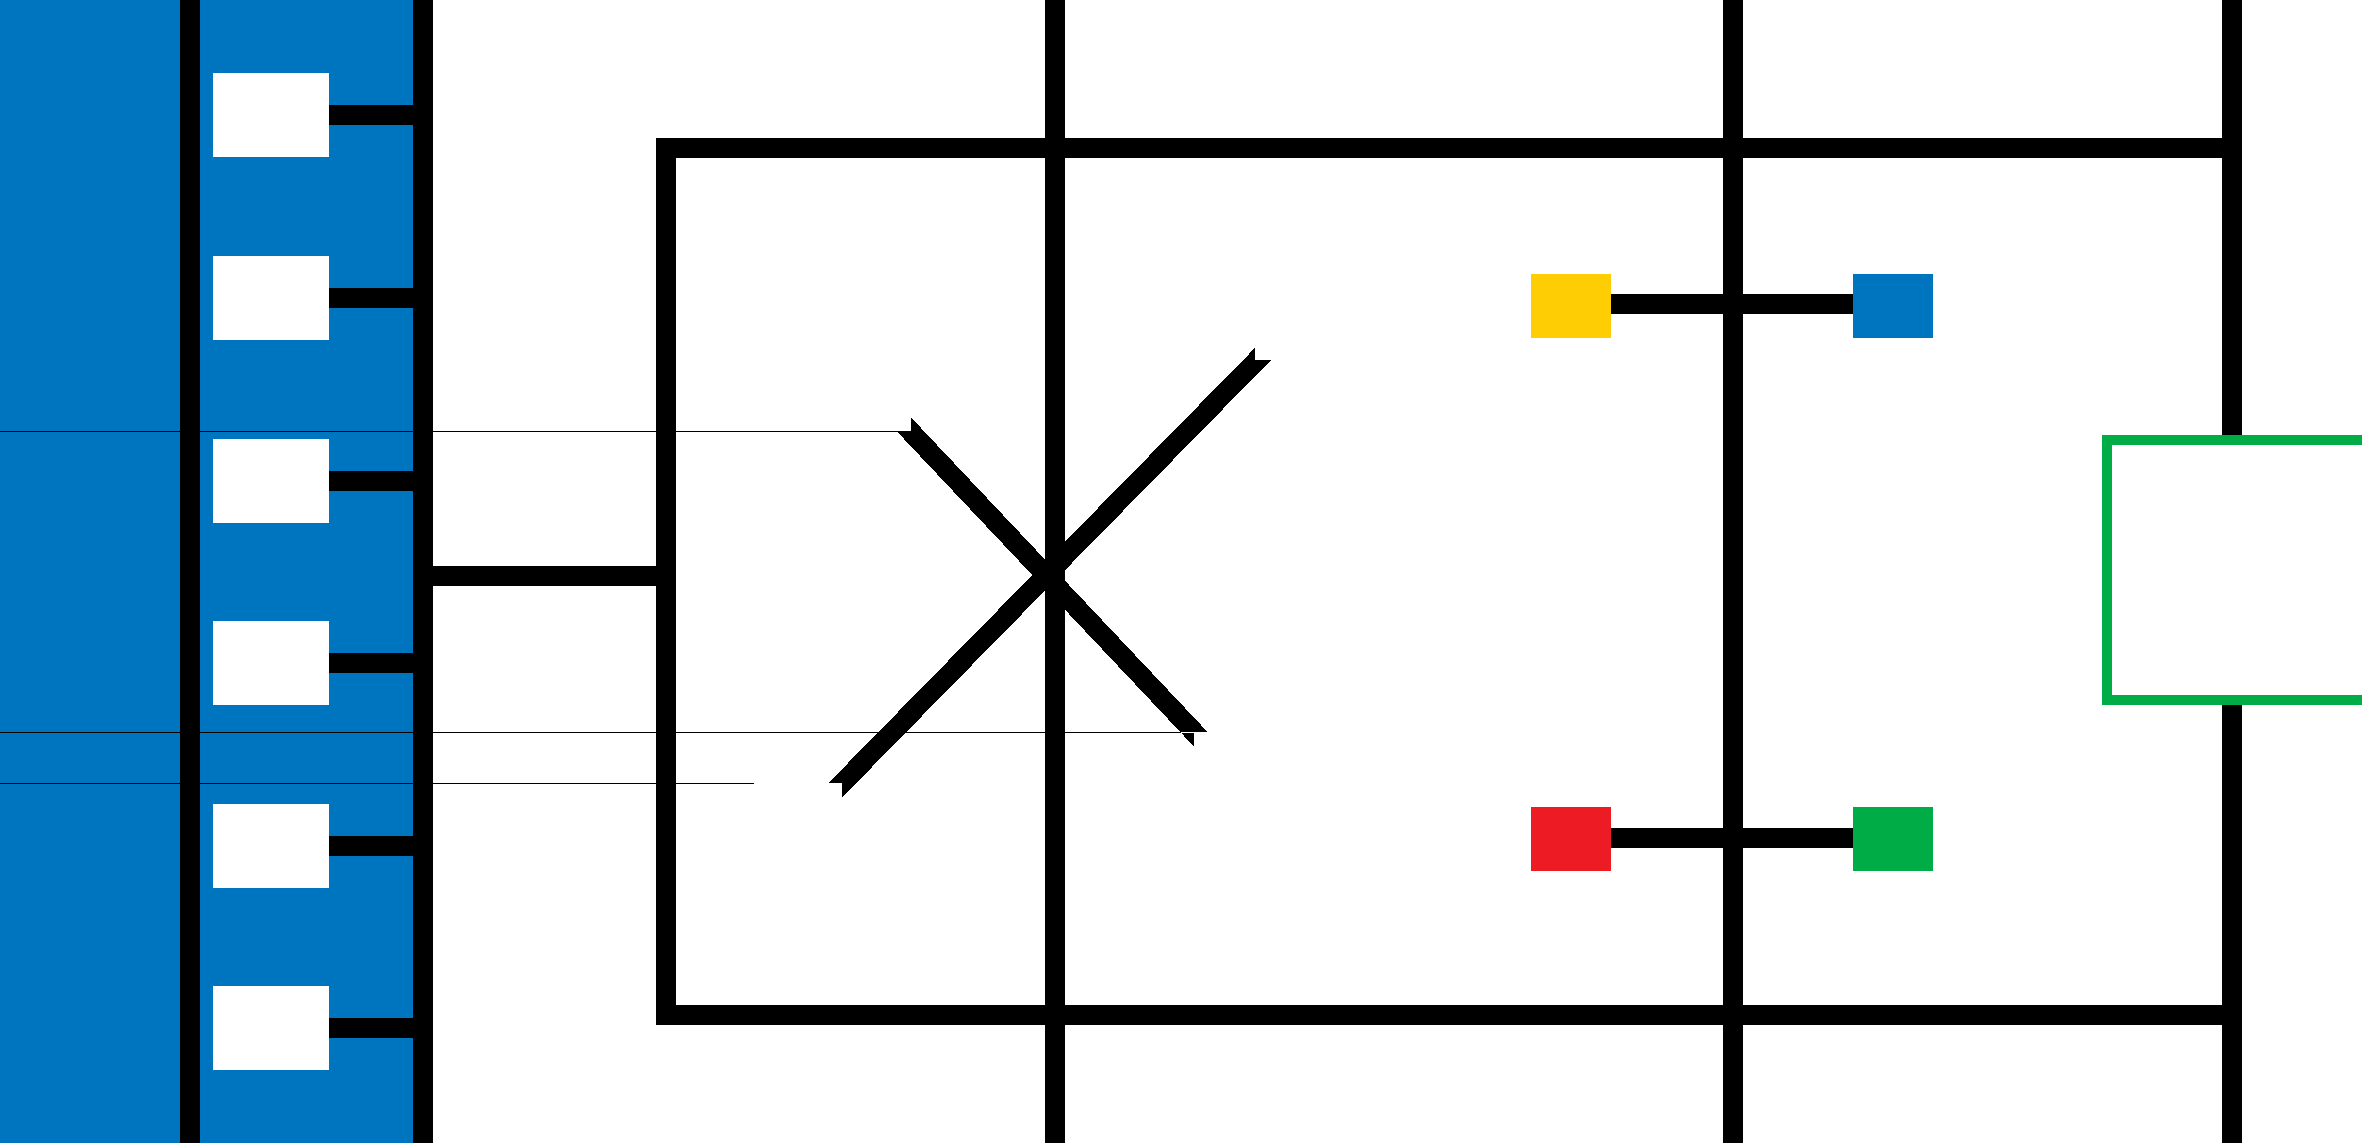
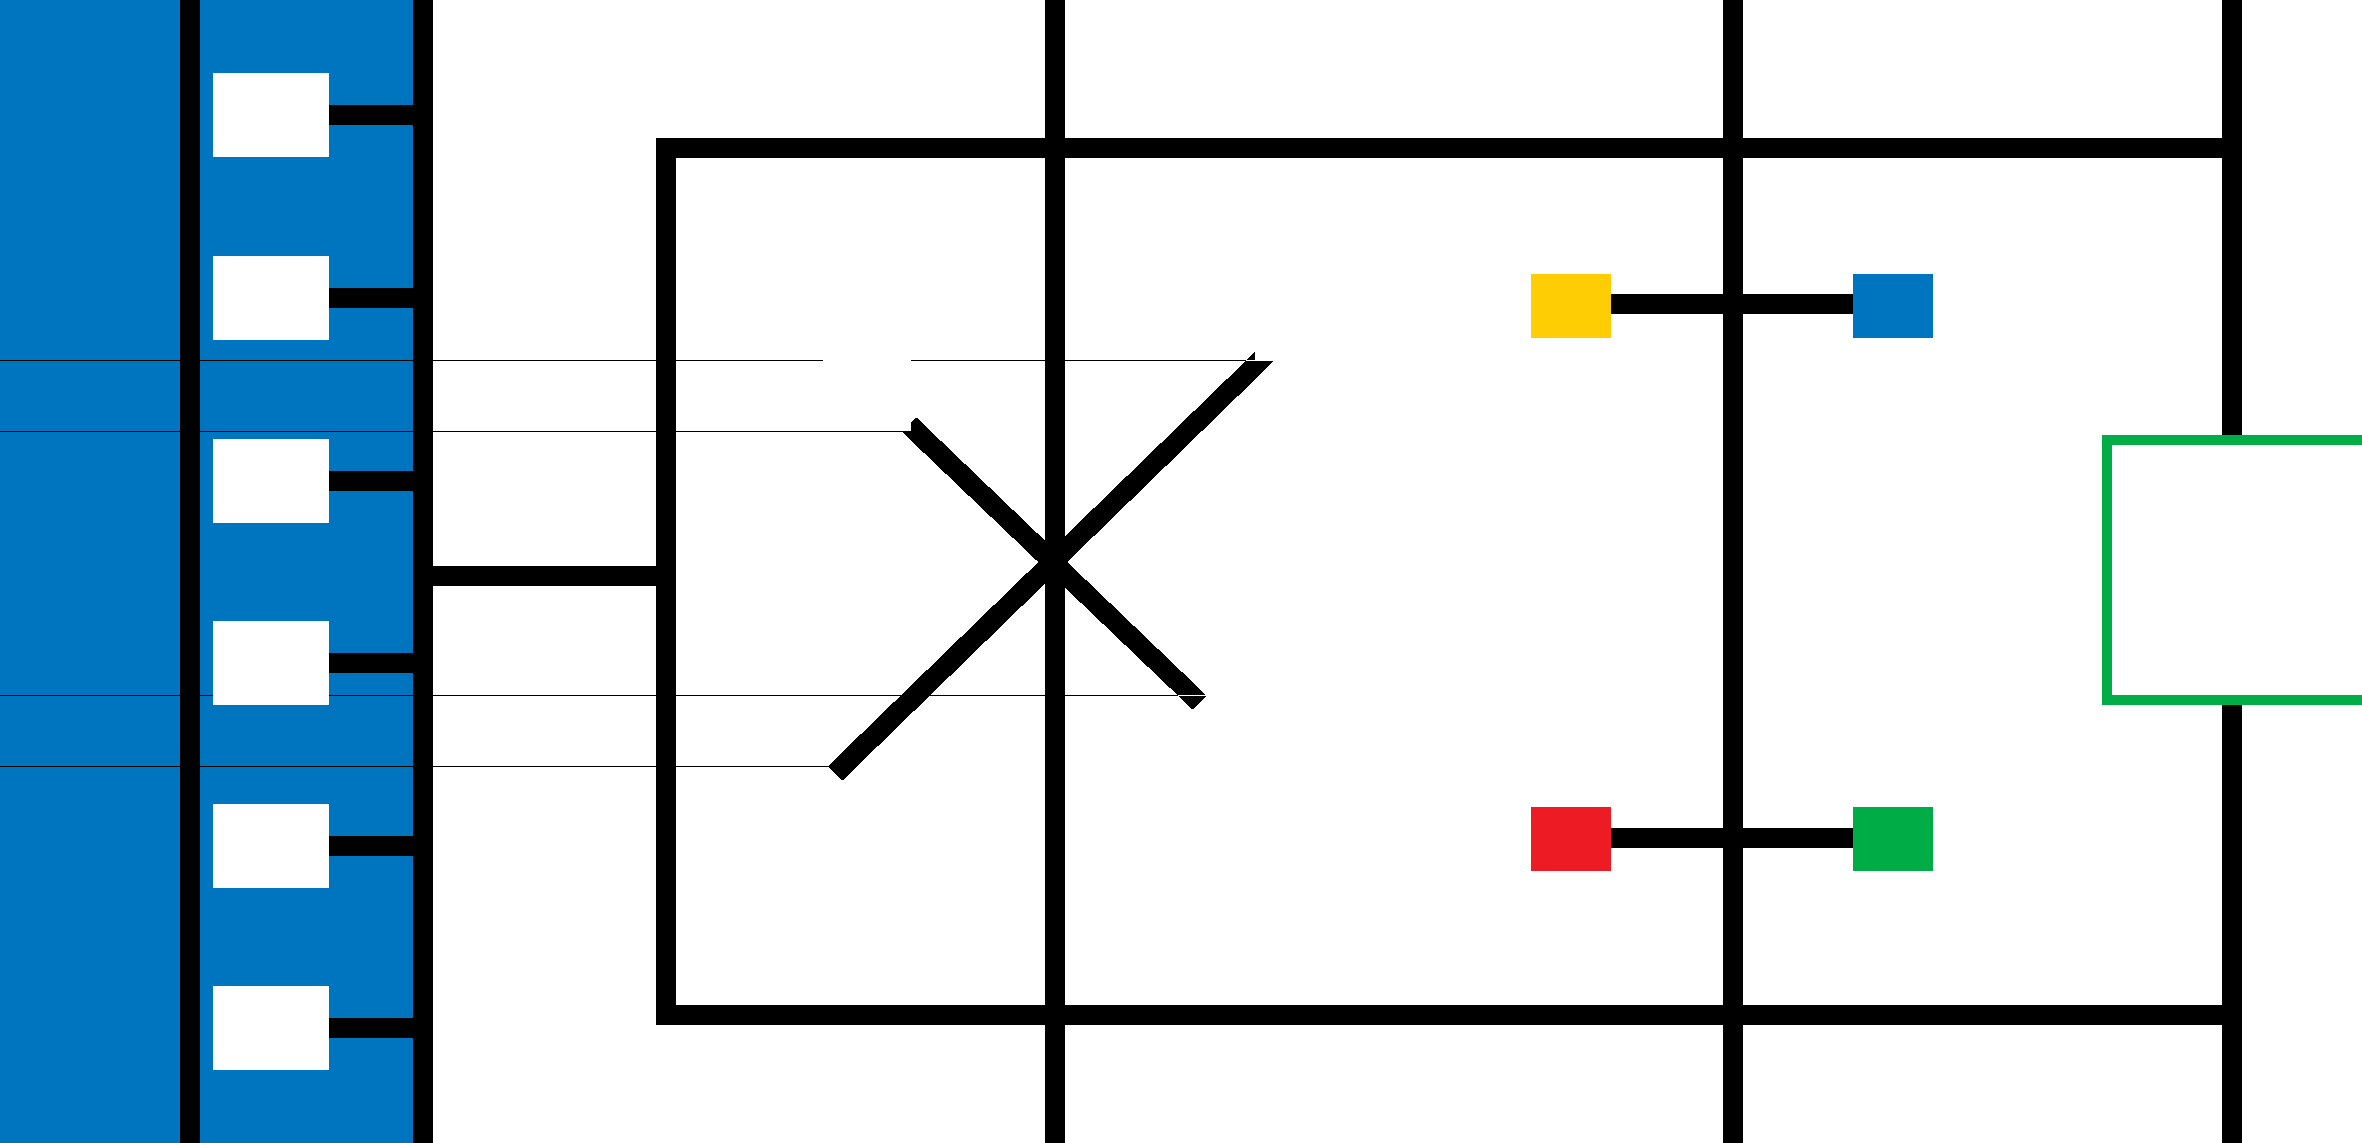
Readjusted lines

Changed region(s): [[0.34, 0.3981, 0.5254, 0.7043], [0.3709, 0.3675, 0.4018, 0.3981]]

diff --git a/ImageGenerator/src/generator/ImageGenerator.java b/ImageGenerator/src/generator/ImageGenerator.java
@@ -54,17 +54,22 @@ public class ImageGenerator {
         //TODO Make more precise, slightly off
         //Container lines
         regions.add(new Polygon(Color.BLACK, Arrays.asList(
-                new Point(1328.4F, 272),
-                new Point(1342.5F, 286.1F),
-                new Point(841.5F, 797.1F),
-                new Point(827.4F, 783)
+                new Point(827, 766),
+                new Point(842, 780),
+                new Point(1274, 360),
+                new Point(1260, 346)
+//                corner of grey box 841.5 766 bot left
+//                corner of grey box 1259.5 360 top right
         )));
 
         regions.add(new Polygon(Color.BLACK, Arrays.asList(
-                new Point(896.4F, 431),
-                new Point(910.5F, 416.9F),
-                new Point(1207.6F, 732),
-                new Point(1193.5F, 746.1F)
+                new Point(916, 417),
+                new Point(901, 431),
+                new Point(1192, 709),
+                new Point(1206, 695)
+//                corner of grey box 915.5 431 top left
+//                corner of grey box 1191.5 695 bot right
+//                length of little black part = 10* sqrt(2) = 14.14
         )));
 
         //Containers base
